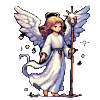
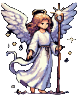
,,,

diff --git a/Exorcista/src/nivel/Nivel.java b/Exorcista/src/nivel/Nivel.java
@@ -130,31 +130,33 @@ public class Nivel extends Dibujo
         Iterator<Alma> iteradorAlmas = almas.iterator();
         Iterator<Cofre> iteradorCofres = cofres.iterator();
         
-        boolean resultado = true;
         while (iteradorParedes.hasNext()) {
             //El iterador nos ayuda a recorrer todo los arreglos para así verificar la colisión del demonio con cualquier otro objeto sobre el nivel
             
             if (iteradorTrampas.hasNext() && demonio.intersects(iteradorTrampas.next()))
-                resultado = false;
+                return false;
             
             if (demonio.intersects(iteradorParedes.next()))
-                resultado = false;
+                return false;
             
             if (iteradorDemonios.hasNext() && demonio.intersects(iteradorDemonios.next())) {
-                resultado = false;
+                return false;
             }
             
             if (iteradorAlmas.hasNext() && demonio.intersects(iteradorAlmas.next())) {
-                resultado = false;
+                return false;
             }
             
             if (iteradorCofres.hasNext() && demonio.intersects(iteradorCofres.next())) {
-                resultado = false;
+                return false;
             }
+            
+            if (demonio.intersects(angel))
+                return false;
         }
         
         // Si no hay colisión con ninguna de los demonios existentes, retorna verdadero
-        return resultado;      
+        return true;      
     }
     
     // aqui creo un demonio en una posicion valida
@@ -178,7 +180,30 @@ public class Nivel extends Dibujo
         demonios.add(demonio);
     } 
 
+    public void moverAngel(int codigo){
 
+        //posiciones anteriores al movimiento. es decir la posicion del angel antes de moverse 
+        int xAnterior = (int) angel.getX();
+        int yAnterior =  (int) angel.getY();
+        
+        //Tengo que guardar la posicion del angel en tal caso que tenga de deshacer un movimienot
+        boolean movimientoAngel = angel.mover(codigo); // Si se mueve me retorna true de lo contrario false 
+        if(movimientoAngel == true){  
+         // Verificar colisión con los demonios
+            for (int i = 0; i < demonios.size(); i++) {
+
+                if (angel.intersects(demonios.get(i))) {
+                    // Si hay colisión, revertir el movimiento
+                    angel.revertirMovimiento(xAnterior, yAnterior);
+ 
+                     break;
+                    
+                }
+            }
+           notificador.notificarCambios();
+        }
+    }
+    
     @Override
     public void dibujar(Graphics2D g) {               
         for (Pared pared: paredes) {

diff --git a/Exorcista/src/personajes/Angel.java b/Exorcista/src/personajes/Angel.java
@@ -19,8 +19,8 @@ import sprite.Dibujo;
  */
 public class Angel extends Dibujo {
     
-    public final static int ANCHO = 100;
-    public final static int ALTO = 100;
+    public final static int ANCHO = 78;
+    public final static int ALTO = 95;
     
     public final int VELOCIDAD = 10;
     
@@ -73,6 +73,12 @@ public class Angel extends Dibujo {
         }
                        
         return false;
+    }
+    
+    public void revertirMovimiento(int xAnterior, int yAnterior) {
+        // Revertir la posición del ángel a las coordenadas anteriores
+        this.x = xAnterior;
+        this.y = yAnterior;
     }
     
     public void setBordes(Delimitable bordes) {

diff --git a/Exorcista/src/control/Mazmorra.java b/Exorcista/src/control/Mazmorra.java
@@ -77,8 +77,7 @@ public class Mazmorra extends Dibujo
                 || codigo == KeyEvent.VK_RIGHT
                 || codigo == KeyEvent.VK_LEFT) {
 
-            if (angel.mover(codigo))
-                refrescador.refrescar();
+            niveles.get(numNivel-1).moverAngel(codigo);
         }
     }
 
@@ -98,7 +97,7 @@ public class Mazmorra extends Dibujo
     
     public final void agregarNivel() throws IOException {
         numNivel++;
-        niveles.add(fabricaNivel.crearNivel(3, angel, this));
+        niveles.add(fabricaNivel.crearNivel(numNivel, angel, this));
         
     }
 

diff --git a/Exorcista/src/gui/ventanaPrincipal/VentanaPrincipal.java b/Exorcista/src/gui/ventanaPrincipal/VentanaPrincipal.java
@@ -91,6 +91,7 @@ public class VentanaPrincipal extends javax.swing.JFrame
     private void formMousePressed(java.awt.event.MouseEvent evt) {//GEN-FIRST:event_formMousePressed
         mazmorra.manejarClick(evt);
         
+        
     }//GEN-LAST:event_formMousePressed
 
     @Override
